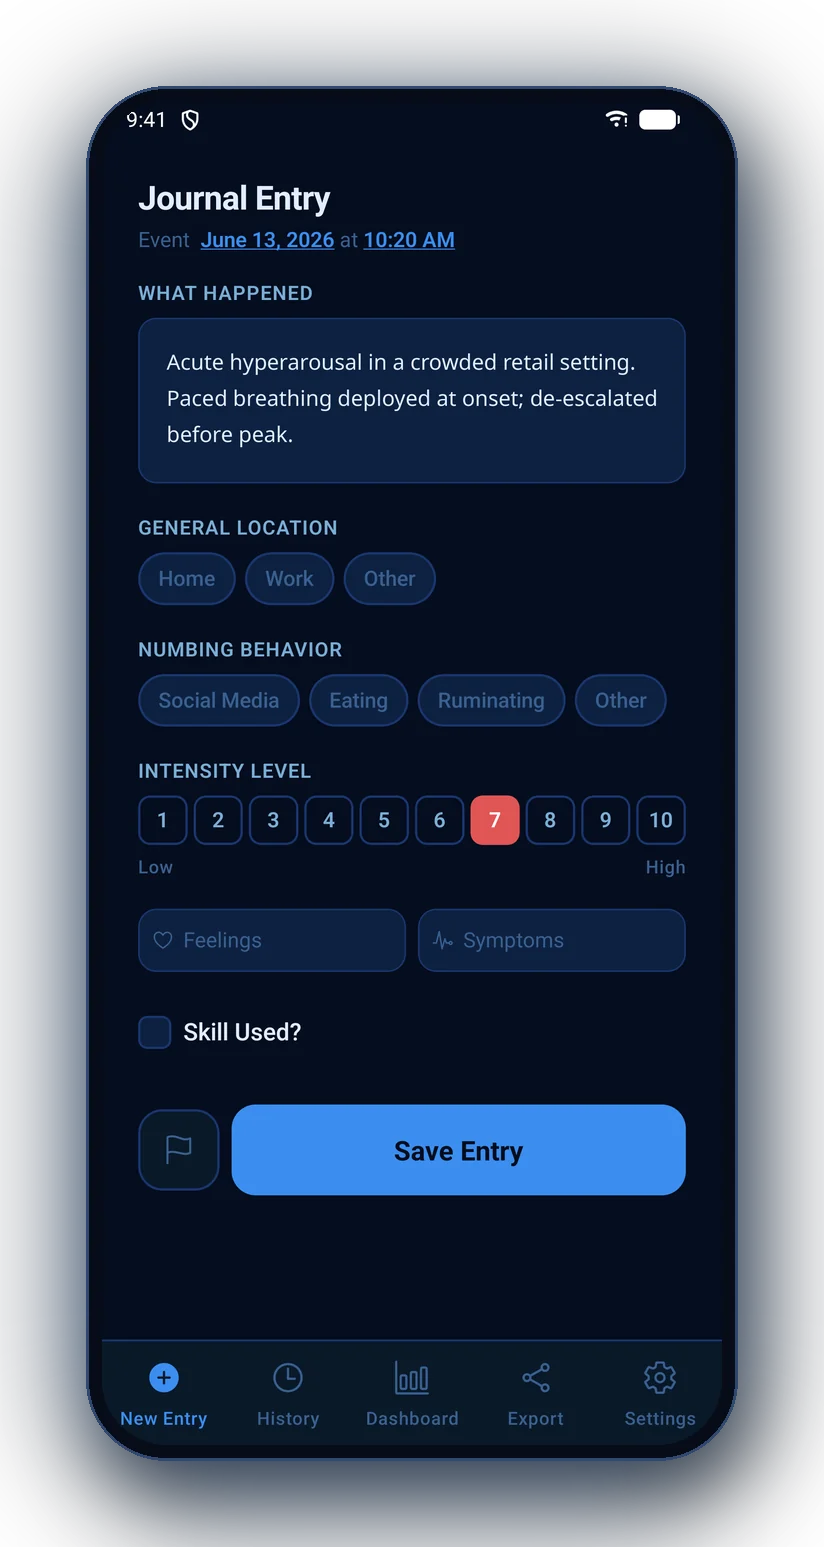
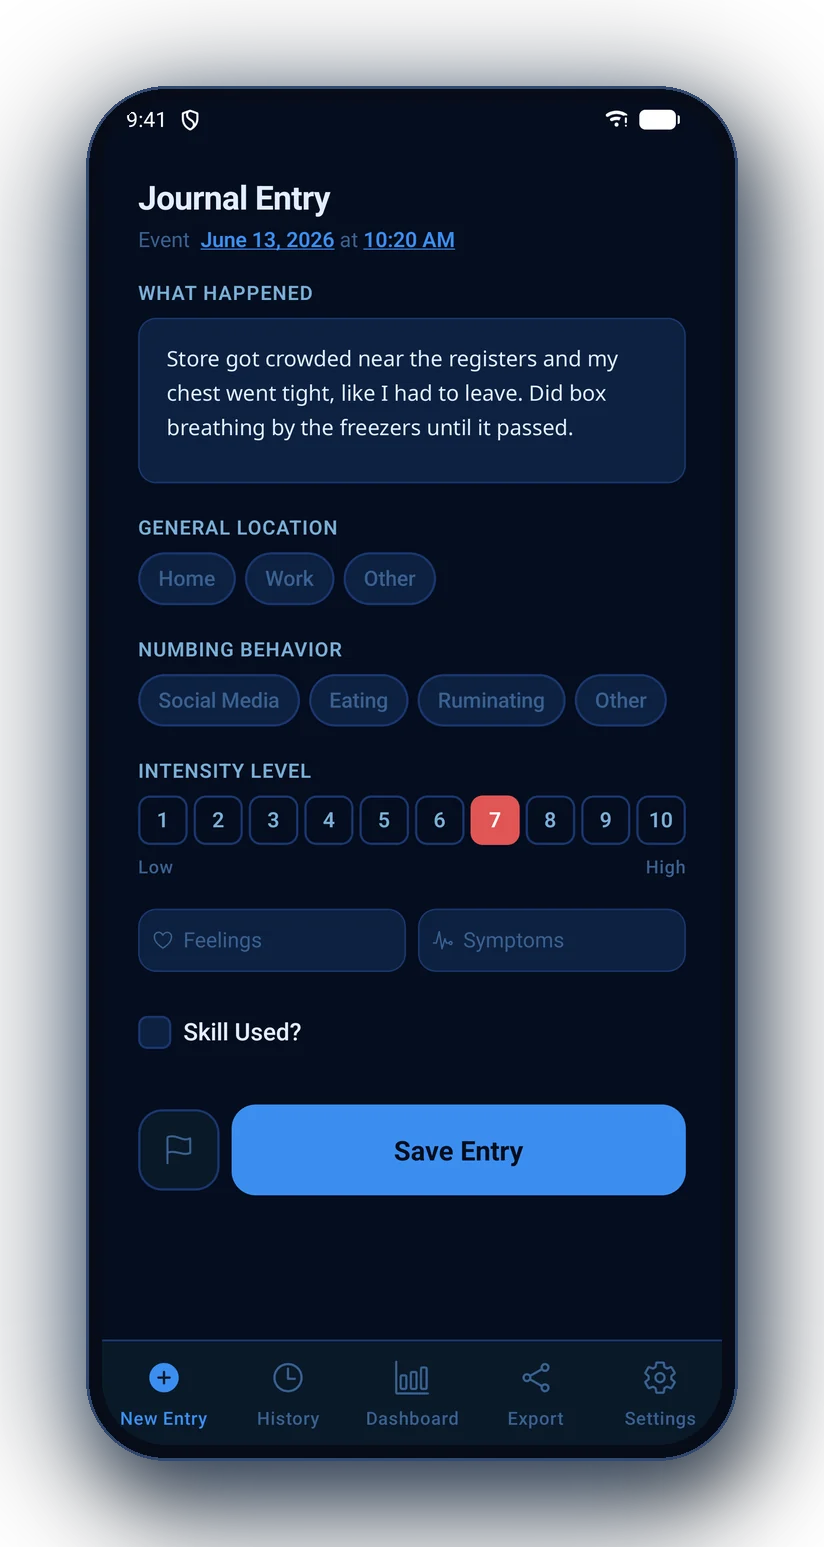
Hero entry text: patient voice, not clinical jargon
Rewrite the journal entry in a real patient's words ('Store got crowded
near the registers and my chest went tight, like I had to leave. Did box
breathing by the freezers until it passed.') instead of the stilted
clinical version.

Changed region(s): [[0.2124, 0.2172, 0.7888, 0.3103]]

diff --git a/index.html b/index.html
@@ -138,8 +138,8 @@
     </div>
     <div class="hero-right reveal-now reveal-now-2">
       <picture>
-  <source srcset="assets/hero.webp?v=5" type="image/webp">
-  <img src="assets/hero.jpg?v=5" alt="Logging a mental health episode in the Surfacing app: intensity, triggers, and skills" width="824" height="1547" fetchpriority="high">
+  <source srcset="assets/hero.webp?v=6" type="image/webp">
+  <img src="assets/hero.jpg?v=6" alt="Logging a mental health episode in the Surfacing app: intensity, triggers, and skills" width="824" height="1547" fetchpriority="high">
 </picture>
     </div>
   </div>